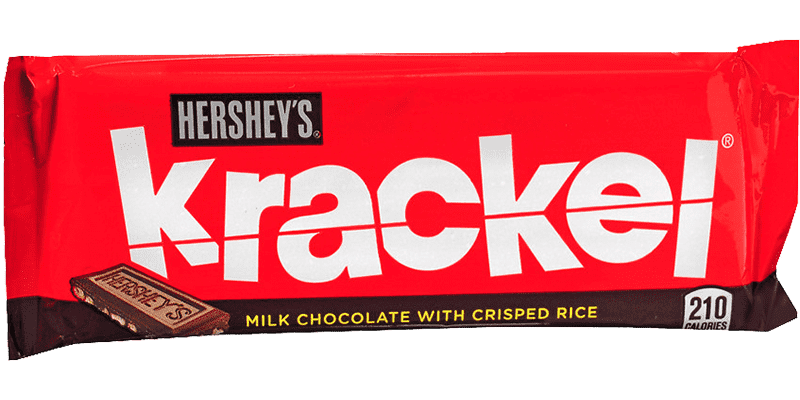
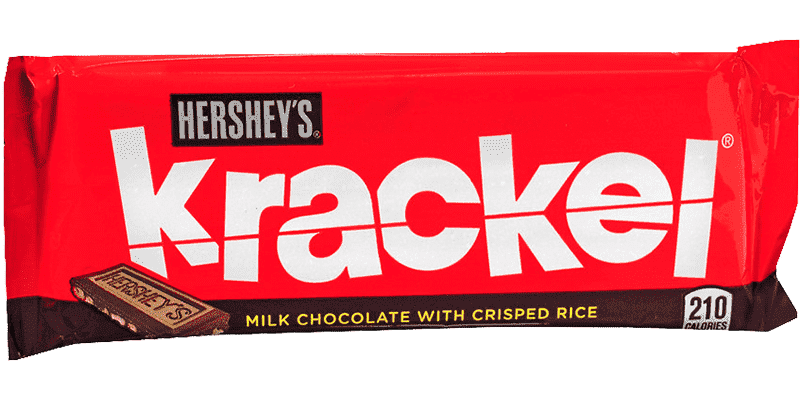
V5.5.1
Change:
1. preload bg img when bg video still loading
2. compress of img

diff --git a/Cocoland/addUser.html b/Cocoland/addUser.html
@@ -23,7 +23,7 @@ This code is licensed under MIT license (See LICENSE.txt for details)
 
 <body>
     <div class="bg">
-        <video muted webkit-playsinline playsinline autoplay loop>
+        <video poster="img/BG.PNG" muted webkit-playsinline playsinline autoplay loop>
                     <source src="img/Bg2.mp4" type="video/mp4">
                     <source src="img/Bg2.webm" type="video/webm">
                 </video>

diff --git a/Cocoland/admin.html b/Cocoland/admin.html
@@ -22,7 +22,7 @@ This code is licensed under MIT license (See LICENSE.txt for details)
 
 <body>
     <div class="bg">
-        <video muted webkit-playsinline playsinline autoplay loop>
+        <video poster="img/BG.PNG" muted webkit-playsinline playsinline autoplay loop>
                     <source src="img/Bg2.mp4" type="video/mp4">
                     <source src="img/Bg2.webm" type="video/webm">
                 </video>

diff --git a/Cocoland/cart.html b/Cocoland/cart.html
@@ -22,7 +22,7 @@ This code is licensed under MIT license (See LICENSE.txt for details)
 
 <body>
     <div class="bg">
-        <video muted webkit-playsinline playsinline autoplay loop>
+        <video poster="img/BG.PNG" muted webkit-playsinline playsinline autoplay loop>
                     <source src="img/Bg2.mp4" type="video/mp4">
                     <source src="img/Bg2.webm" type="video/webm">
                 </video>

diff --git a/Cocoland/about.html b/Cocoland/about.html
@@ -21,7 +21,7 @@ This code is licensed under MIT license (See LICENSE.txt for details)
 
 <body>
     <div class="bg">
-        <video muted webkit-playsinline playsinline autoplay loop>
+        <video poster="img/BG.PNG" muted webkit-playsinline playsinline autoplay loop>
                     <source src="img/Bg2.mp4" type="video/mp4">
                     <source src="img/Bg2.webm" type="video/webm">
         </video>

diff --git a/Cocoland/contact.html b/Cocoland/contact.html
@@ -20,7 +20,7 @@ This code is licensed under MIT license (See LICENSE.txt for details)
 
 <body>
     <div class="bg">
-        <video muted webkit-playsinline playsinline autoplay loop>
+        <video poster="img/BG.PNG" muted webkit-playsinline playsinline autoplay loop>
             <source src="img/Bg2.webm" type="video/webm">
             <source src="img/Bg2.mp4" type="video/mp4">
         </video>

diff --git a/Cocoland/edit.html b/Cocoland/edit.html
@@ -23,7 +23,7 @@ This code is licensed under MIT license (See LICENSE.txt for details)
 
 <body>
     <div class="bg">
-        <video muted webkit-playsinline playsinline autoplay loop>
+        <video poster="img/BG.PNG" muted webkit-playsinline playsinline autoplay loop>
             <source src="img/Bg2.webm" type="video/webm">
             <source src="img/Bg2.mp4" type="video/mp4">
         </video>

diff --git a/Cocoland/index.html b/Cocoland/index.html
@@ -22,7 +22,7 @@ This code is licensed under MIT license (See LICENSE.txt for details)
 
 <body>
     <div class="bg">
-        <video muted webkit-playsinline playsinline autoplay loop>
+        <video poster="img/BG.PNG" muted webkit-playsinline playsinline autoplay loop>
             <source src="img/Bg2.mp4" type="video/mp4">
             <source src="img/Bg2.webm" type="video/webm">
         </video>

diff --git a/Cocoland/OrderComplete.html b/Cocoland/OrderComplete.html
@@ -21,7 +21,7 @@ This code is licensed under MIT license (See LICENSE.txt for details)
 
 <body>
     <div class="bg">
-        <video muted webkit-playsinline playsinline autoplay loop>
+        <video poster="img/BG.PNG" muted webkit-playsinline playsinline autoplay loop>
             <source src="img/Bg2.mp4" type="video/mp4">
             <source src="img/Bg2.mp4" type="video/mp4">
         </video>

diff --git a/Cocoland/WIP.html b/Cocoland/WIP.html
@@ -20,7 +20,7 @@ This code is licensed under MIT license (See LICENSE.txt for details)
 
 <body>
     <div class="bg">
-        <video muted webkit-playsinline playsinline autoplay loop>
+        <video poster="img/BG.PNG" muted webkit-playsinline playsinline autoplay loop>
             <source src="img/Bg2.mp4" type="video/mp4">
             <source src="img/Bg2.mp4" type="video/mp4">
         </video>

diff --git a/Cocoland/login.html b/Cocoland/login.html
@@ -23,7 +23,7 @@ This code is licensed under MIT license (See LICENSE.txt for details)
 
 <body>
     <div class="bg">
-        <video muted webkit-playsinline playsinline autoplay loop>
+        <video poster="img/BG.PNG" muted webkit-playsinline playsinline autoplay loop>
             <source src="img/Bg2.mp4" type="video/mp4">
             <source src="img/Bg2.mp4" type="video/mp4">
         </video>

diff --git a/Cocoland/payment.html b/Cocoland/payment.html
@@ -23,7 +23,7 @@ This code is licensed under MIT license (See LICENSE.txt for details)
 
 <body>
     <div class="bg">
-        <video muted webkit-playsinline playsinline autoplay loop>
+        <video poster="img/BG.PNG" muted webkit-playsinline playsinline autoplay loop>
             <source src="img/Bg2.mp4" type="video/mp4">
             <source src="img/Bg2.mp4" type="video/mp4">
         </video>

diff --git a/Cocoland/register.html b/Cocoland/register.html
@@ -22,7 +22,7 @@ This code is licensed under MIT license (See LICENSE.txt for details)
 
 <body>
     <div class="bg">
-        <video muted webkit-playsinline playsinline autoplay loop>
+        <video poster="img/BG.PNG" muted webkit-playsinline playsinline autoplay loop>
             <source src="img/Bg2.mp4" type="video/mp4">
             <source src="img/Bg2.mp4" type="video/mp4">
         </video>
